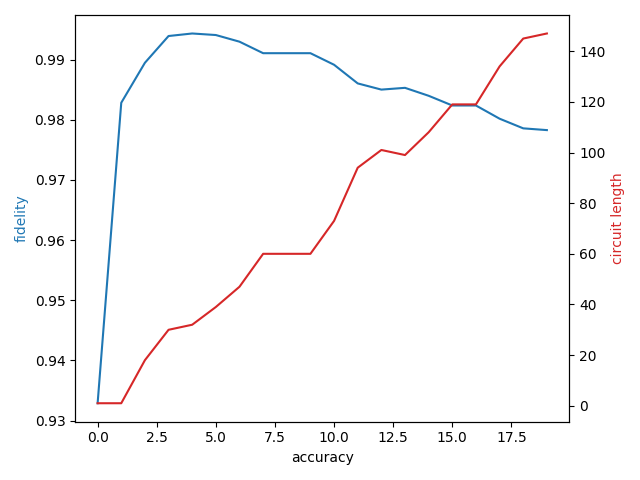
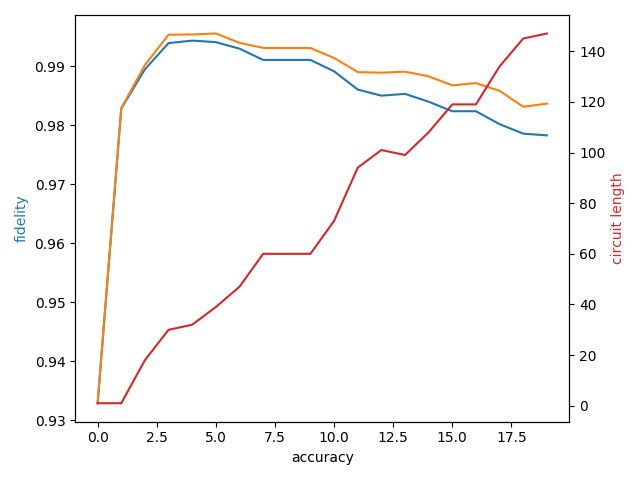
can plot S fidelity vs approximation accuracy

diff --git a/S_fidelity.py b/S_fidelity.py
@@ -2,6 +2,7 @@ import random
 import numpy as np
 from scipy.linalg import sqrtm
 import math
+import density_runner
 
 
 def pure_density_from_state(state):
@@ -25,7 +26,7 @@ def apply_channel(channel, density):
 
 
 def f_min(channel1, channel2, n_trials):
-    # TODO: maximise over all tensor products up to size n
+    # TODO: optimise over all tensor products up to size n
     dim = channel1[0].shape[0]
     without_ancilla = min([fidelity(apply_channel(channel1, xi), apply_channel(channel2, xi)) for xi in
                            [pure_density_from_state(random_state(dim)) for _ in range(n_trials)]])
@@ -33,7 +34,22 @@ def f_min(channel1, channel2, n_trials):
     channel2_ancilla = [np.kron(e, np.eye(dim)) for e in channel2]
     with_ancilla = min([fidelity(apply_channel(channel1_ancilla, xi), apply_channel(channel2_ancilla, xi)) for xi in
                         [pure_density_from_state(random_state(dim ** 2)) for _ in range(n_trials)]])
-    return max(with_ancilla, without_ancilla)
+    return min(with_ancilla, without_ancilla)
+
+
+def experimental(circuit_string, unitary, n_trials, *, p1=0, gamma1=0, gamma2=0):
+    # TODO: optimise over all tensor products up to size n
+    dim = unitary.shape[0]
+    without_ancilla = min([fidelity(density_runner.run_by_matrices(circuit_string, xi, p1, gamma1, gamma2),
+                                    apply_channel([unitary], xi)) for xi in
+                           [pure_density_from_state(random_state(dim)) for _ in range(n_trials)]])
+    return without_ancilla
+    # TODO: work with ancillas
+    channel1_ancilla = [np.kron(e, np.eye(dim)) for e in channel1]
+    channel2_ancilla = [np.kron(e, np.eye(dim)) for e in channel2]
+    with_ancilla = min([fidelity(apply_channel(channel1_ancilla, xi), apply_channel(channel2_ancilla, xi)) for xi in
+                        [pure_density_from_state(random_state(dim ** 2)) for _ in range(n_trials)]])
+    return min(with_ancilla, without_ancilla)
 
 
 def angle(channel1, channel2):

diff --git a/where_to_stop.py b/where_to_stop.py
@@ -1,5 +1,6 @@
 import approximations
 import J_fidelity
+import S_fidelity
 import numpy as np
 import math
 import matplotlib.pyplot as plt
@@ -17,12 +18,16 @@ gamma2 = 0
 U = np.array([[complex(math.cos(theta / 2), - math.sin(theta / 2)), 0],
               [0, complex(math.cos(theta / 2), math.sin(theta / 2))]])
 
-fidelities = [J_fidelity.f_pro_experimental(c, U, p1, gamma1, gamma2) for c in circuits]
-print("The best accuracy was: "+str(max(range(max_acc), key=lambda x: fidelities[x])))
+J_fidelities = [J_fidelity.f_pro_experimental(c, U, p1, gamma1, gamma2) for c in circuits]
+print("The best accuracy for J was: " + str(max(range(max_acc), key=lambda x: J_fidelities[x])))
+
+S_fidelities = [S_fidelity.experimental(c, U, 100, p1=p1, gamma1=gamma1, gamma2=gamma2) for c in circuits]
+print("The best accuracy for S was: " + str(max(range(max_acc), key=lambda x: S_fidelities[x])))
 
 
 fig, ax1 = plt.subplots()
-ax1.plot(fidelities)
+ax1.plot(J_fidelities)
+ax1.plot(S_fidelities)
 ax1.set_ylabel('fidelity', color='tab:blue')
 ax1.set_xlabel('accuracy')
 ax2 = ax1.twinx()
